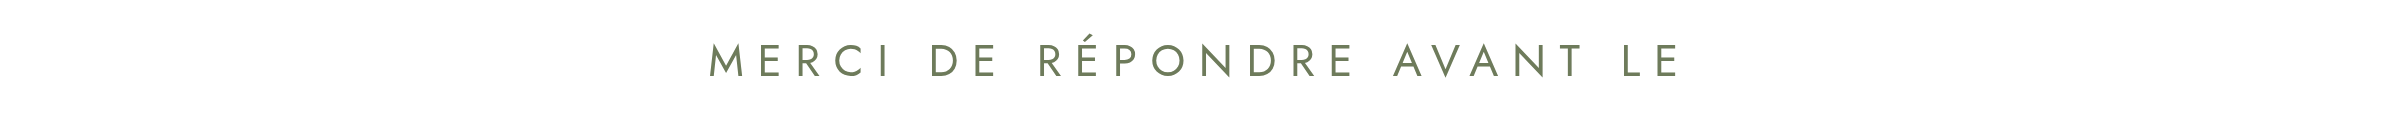
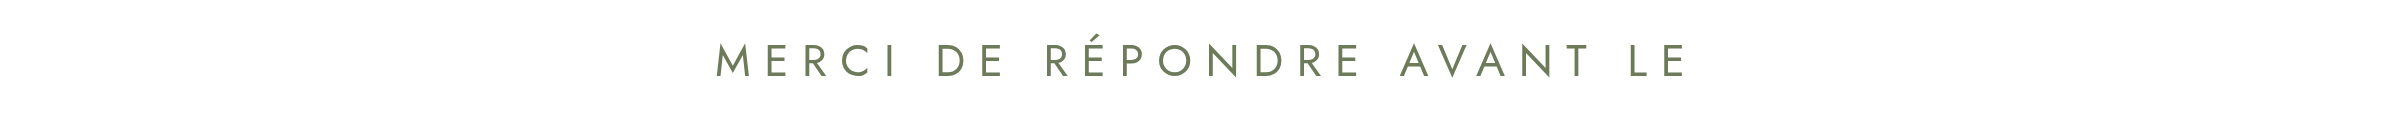
The password in the letter's own face, and every tracked line truly centred
The design chart sets the password in the serif; it was being set in the
small-caps sans of the labels around it. And letter-spacing puts a space after
the last character as well, so every tracked line sat half a space left of
where it looked centred — the negative margin takes that back out, and all of
them now centre on the ink within a pixel.

Claude-Session: https://claude.ai/code/session_01WFYf9ePHzRaJm7JcUWVSwK

Changed region(s): [[0.2812, 0.3879, 0.7188, 0.6724], [0.4375, 0.3103, 0.4688, 0.3621]]

diff --git a/tools/invites/assets/render-card.js b/tools/invites/assets/render-card.js
@@ -114,9 +114,15 @@ table.facts tr+tr td{border-top:1px solid #E4DCC9}
    password, which no public file may hold, is drawn the same way into the
    couple's own Drive instead. */
 .piece-fixed{width:600px;display:flex;align-items:center;justify-content:center;text-align:center;padding:6px 0}
-.piece-ui{font-family:Jost;font-size:11px;letter-spacing:3.4px;text-transform:uppercase;color:#6E7B5B;white-space:nowrap}
-.piece-ui.on-green{color:#FBF8EF;font-size:12.5px;letter-spacing:3.6px}
-.piece-ui.pw{font-family:Jost;font-size:21px;letter-spacing:4px;color:#3D352A;text-transform:none}
+/* Letter-spacing puts the space after the last character too, so a tracked
+   line sits half a space left of where it looks centred. The negative margin
+   takes that trailing space back out of the box, and the flex centring then
+   centres the ink itself. */
+.piece-ui{font-family:Jost;font-size:11px;letter-spacing:3.4px;margin-right:-3.4px;text-transform:uppercase;color:#6E7B5B;white-space:nowrap}
+.piece-ui.on-green{color:#FBF8EF;font-size:12.5px;letter-spacing:3.6px;margin-right:-3.6px}
+/* the password is set in the letter's own face, as the design chart has it —
+   not in the small-caps sans of the labels around it */
+.piece-ui.pw{font-family:Cormorant;font-weight:500;font-size:27px;letter-spacing:4.5px;margin-right:-4.5px;color:#3D352A;text-transform:none}
 .piece-close .c2{font-family:Cormorant;font-style:italic;font-size:22px;color:#897C68;white-space:nowrap}
 .piece-mark{background:#FAF6EC;padding:16px 26px;display:inline-block}
 .piece-mark .m{font-family:Pinyon;font-size:46px;line-height:1.45;color:#3D352A;white-space:nowrap}
